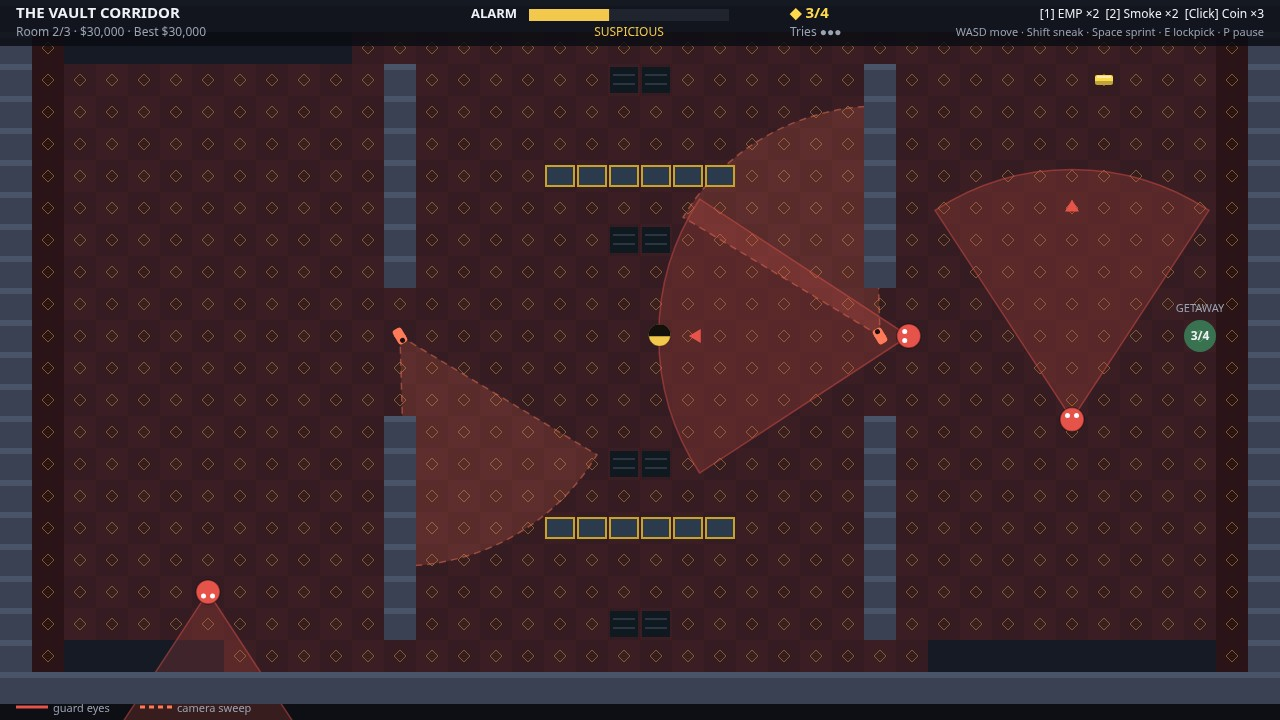
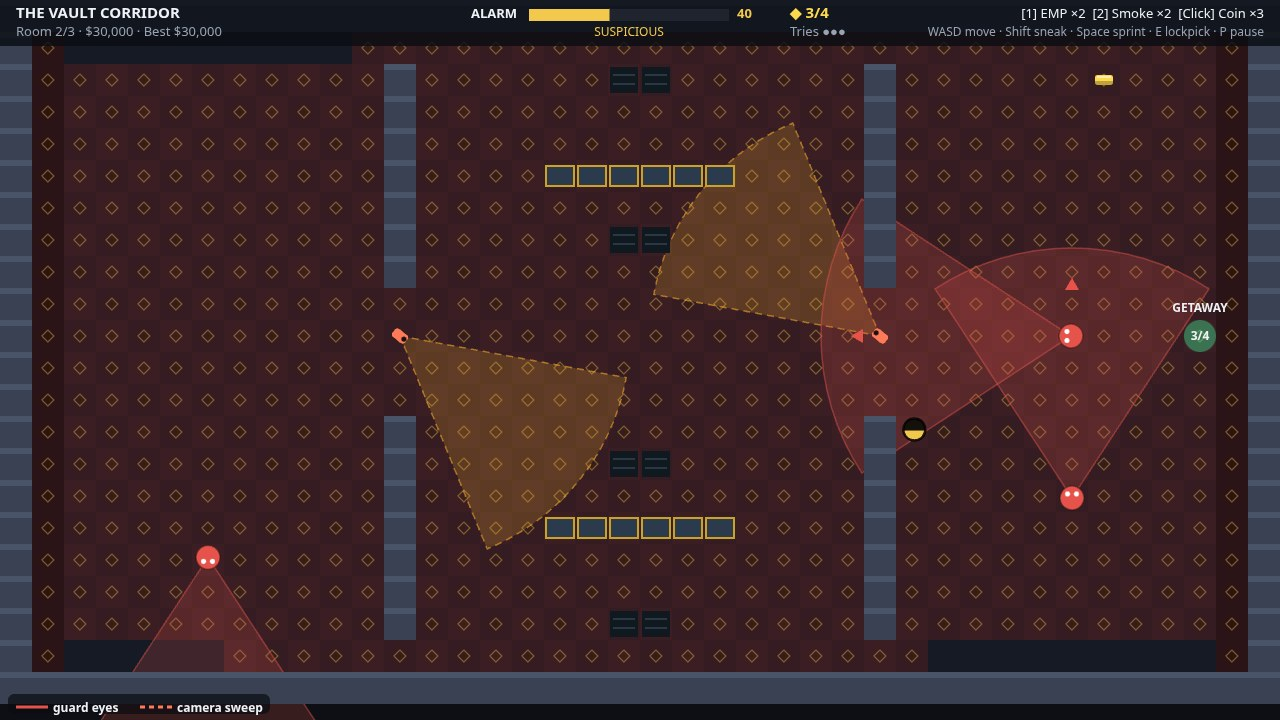
r3: Goldfish r2 polish — patrol bend M3 + HUD m3 + re-pose N1/N2 + veins N3 + legend N4 + GETAWAY/alarm N5
- M3: Corridor G2 patrol [[19,10],[33,10]] -> [[19,10],[26,12],[33,10]]
  (legs stay in open rows 9-12; autopilot still wins 59s $73,000 0 caught 3 tries)
- m3: HUD fonts 12->13px (controls/subline/tries), alarm number added
- N1+N2: cover re-posed [20,10] -> [28,13] (single G2 cone, alarm 40.2),
  thief outline 1px -> 2.5px; [8,14] tried first, failed (wall stuck, alarm 90)
- N3: Gallery marble veins alpha 0.10->0.22, dice<0.25-><0.5
- N4: legend 12px bold + dark pill; N5: GETAWAY 12px bold + alarm number
- G: camera cones amber rgba(255,178,44) vs guard red
- Screenshots re-shot 2x byte-identical; main.ts 2 runs byte-identical
- Goldfish r3 re-review pending; r2 LAYAK SUBMIT, rank 20-45 (center ~28-30)

diff --git a/game/src/render.js b/game/src/render.js
@@ -97,8 +97,8 @@ function paintFloorTile(ctx, s, col, row, ch) {
     ctx.moveTo(x, y + TILE - 0.5);
     ctx.lineTo(x + TILE, y + TILE - 0.5);
     ctx.stroke();
-    if (dice < 0.25) {
-      ctx.strokeStyle = 'rgba(255, 255, 255, 0.10)';
+    if (dice < 0.5) {
+      ctx.strokeStyle = 'rgba(255, 255, 255, 0.22)';
       ctx.beginPath();
       ctx.moveTo(x + 5, y + 27);
       ctx.lineTo(x + 27, y + 5);
@@ -180,8 +180,8 @@ function paintCones(ctx, s) {
       cam.facing,
       CAMERA.coneRange,
       CAMERA.coneHalfAngle,
-      PALETTE.cameraCone,
-      'rgba(255, 122, 89, 0.45)',
+      'rgba(255, 178, 44, 0.20)',
+      'rgba(255, 178, 44, 0.55)',
       true,
     );
   }
@@ -298,8 +298,8 @@ function paintExit(ctx, s) {
   ctx.fill();
   ctx.restore();
   if (s.screen !== SCREEN_PLAY) return;
-  ctx.fillStyle = PALETTE.muted;
-  ctx.font = `11px ${FONT}`;
+  ctx.fillStyle = PALETTE.text;
+  ctx.font = `700 12px ${FONT}`;
   ctx.textAlign = 'center';
   ctx.fillText(s.lootTaken >= s.lootTarget ? 'OPEN' : 'GETAWAY', exit.x, exit.y - 24);
   ctx.fillStyle = PALETTE.text;
@@ -396,8 +396,8 @@ function paintPlayer(ctx, s) {
   ctx.arc(p.x, p.y, PLAYER.radius, 0, Math.PI * 2);
   ctx.fill();
   ctx.restore();
-  ctx.strokeStyle = 'rgba(0, 0, 0, 0.4)';
-  ctx.lineWidth = 1;
+  ctx.strokeStyle = 'rgba(0, 0, 0, 0.85)';
+  ctx.lineWidth = 2.5;
   ctx.beginPath();
   ctx.arc(p.x, p.y, PLAYER.radius, 0, Math.PI * 2);
   ctx.stroke();
@@ -419,7 +419,7 @@ function paintHud(ctx, s) {
   ctx.font = `700 15px ${FONT}`;
   ctx.fillText(s.room.name.toUpperCase(), 16, 18);
   ctx.fillStyle = PALETTE.muted;
-  ctx.font = `12px ${FONT}`;
+  ctx.font = `13px ${FONT}`;
   ctx.fillText(
     `Room ${s.roomIndex + 1}/3 · ${money(s.lootValue)} · Best ${money(s.best)}`,
     16,
@@ -440,6 +440,9 @@ function paintHud(ctx, s) {
   const word = s.alarm < 35 ? 'quiet' : s.alarm < 100 ? 'SUSPICIOUS' : 'LOCKDOWN';
   ctx.fillStyle =
     s.alarm < 35 ? PALETTE.muted : s.alarm < 70 ? PALETTE.alarmMid : PALETTE.alarmHigh;
+  ctx.font = `700 13px ${FONT}`;
+  ctx.textAlign = 'left';
+  ctx.fillText(String(Math.round(s.alarm)), 737, 18);
   ctx.font = `12px ${FONT}`;
   ctx.textAlign = 'center';
   ctx.fillText(word, ALARM_BAR_X + ALARM_BAR_WIDTH / 2, 36);
@@ -449,20 +452,20 @@ function paintHud(ctx, s) {
   ctx.font = `700 15px ${FONT}`;
   ctx.fillText(`◆ ${s.lootTaken}/${s.lootTarget}`, 790, 18);
   ctx.fillStyle = PALETTE.muted;
-  ctx.font = `12px ${FONT}`;
+  ctx.font = `13px ${FONT}`;
   const dots = '●'.repeat(s.triesLeft) + '○'.repeat(Math.max(0, 3 - s.triesLeft));
   ctx.fillText(`Tries ${dots}`, 790, 36);
 
   ctx.textAlign = 'right';
   ctx.fillStyle = PALETTE.text;
-  ctx.font = `12px ${FONT}`;
+  ctx.font = `13px ${FONT}`;
   ctx.fillText(
     `[1] EMP ×${s.tools.emp}  [2] Smoke ×${s.tools.smoke}  [Click] Coin ×${s.tools.coin}`,
     1264,
     18,
   );
   ctx.fillStyle = PALETTE.muted;
-  ctx.font = `11px ${FONT}`;
+  ctx.font = `12px ${FONT}`;
   ctx.fillText('WASD move · Shift sneak · Space sprint · E lockpick · P pause', 1264, 36);
 }
 
@@ -478,14 +481,17 @@ function paintBanner(ctx, s) {
 }
 
 function paintLegend(ctx) {
+  ctx.fillStyle = 'rgba(10, 12, 18, 0.72)';
+  roundRectPath(ctx, 8, 694, 262, 20, 6);
+  ctx.fill();
   ctx.strokeStyle = PALETTE.guard;
   ctx.lineWidth = 3;
   ctx.beginPath();
   ctx.moveTo(16, 707);
   ctx.lineTo(48, 707);
   ctx.stroke();
-  ctx.fillStyle = PALETTE.muted;
-  ctx.font = `11px ${FONT}`;
+  ctx.fillStyle = PALETTE.text;
+  ctx.font = `700 12px ${FONT}`;
   ctx.textAlign = 'left';
   ctx.fillText('guard eyes', 53, 712);
   ctx.strokeStyle = PALETTE.camera;

diff --git a/game/src/level.js b/game/src/level.js
@@ -43,7 +43,7 @@ export const ROOMS = [
     loot: [[5, 2, 'gold'], [34, 2, 'gold'], [5, 19, 'gold'], [34, 19, 'gold']],
     guards: [
       { waypoints: [[6, 3], [6, 18]], pause: 1 },
-      { waypoints: [[19, 10], [33, 10]], pause: 1 },
+      { waypoints: [[19, 10], [26, 12], [33, 10]], pause: 1 },
       { waypoints: [[33, 3], [33, 18]], pause: 1 },
     ],
     cameras: [

diff --git a/game/src/shots.js b/game/src/shots.js
@@ -25,7 +25,7 @@ const ZERO_INPUT = {
 const PILOT_SECONDS = 30;
 const POSE_TILES = [
   [20, 8],
-  [20, 10],
+  [28, 13],
   [20, 15],
 ];
 const POSE_FREEZE_ALARM = 40;
